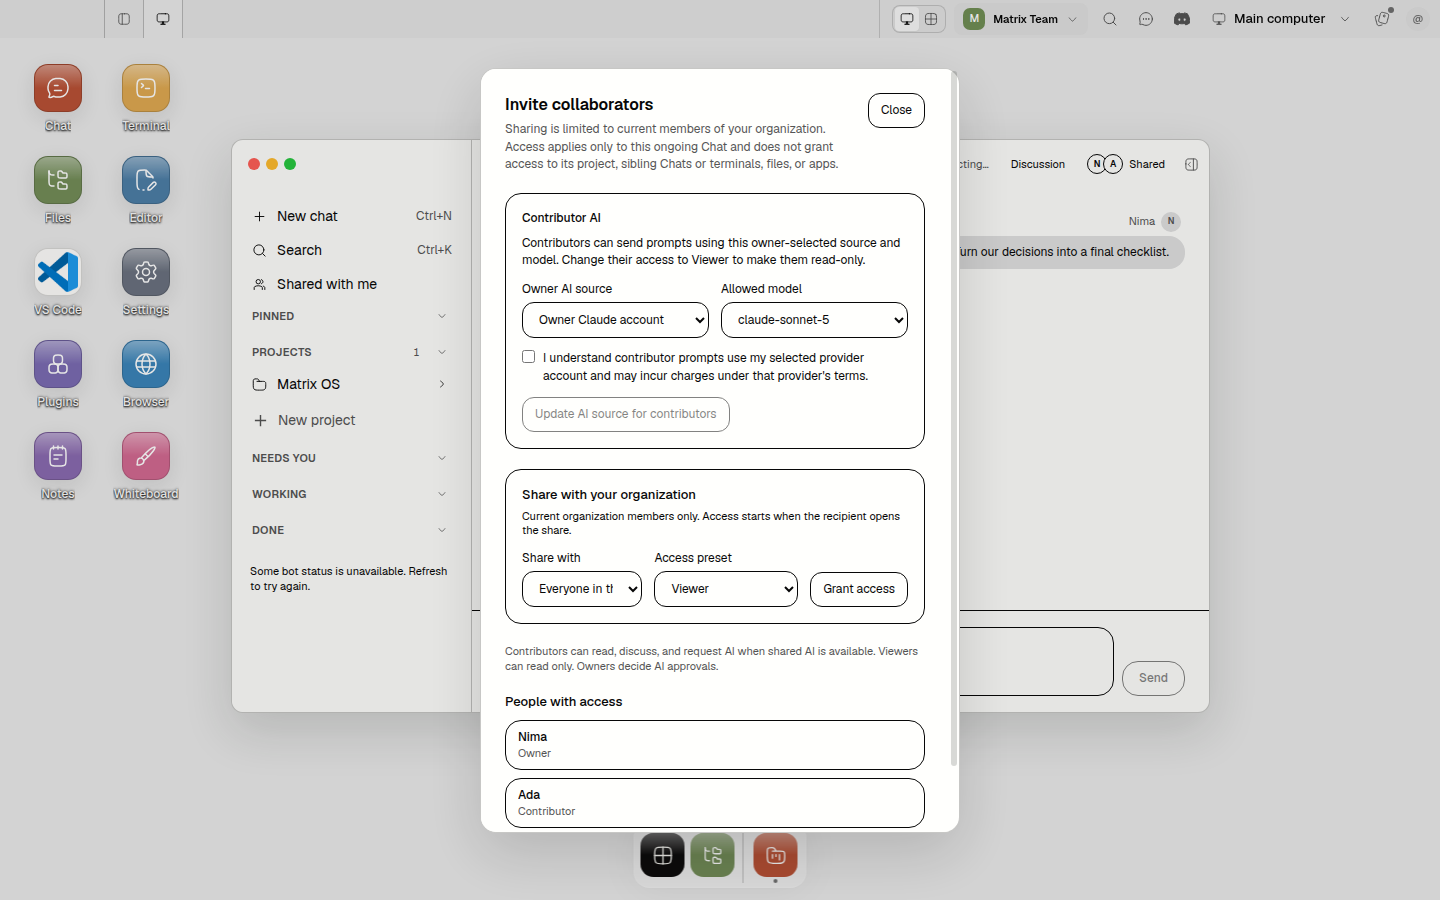
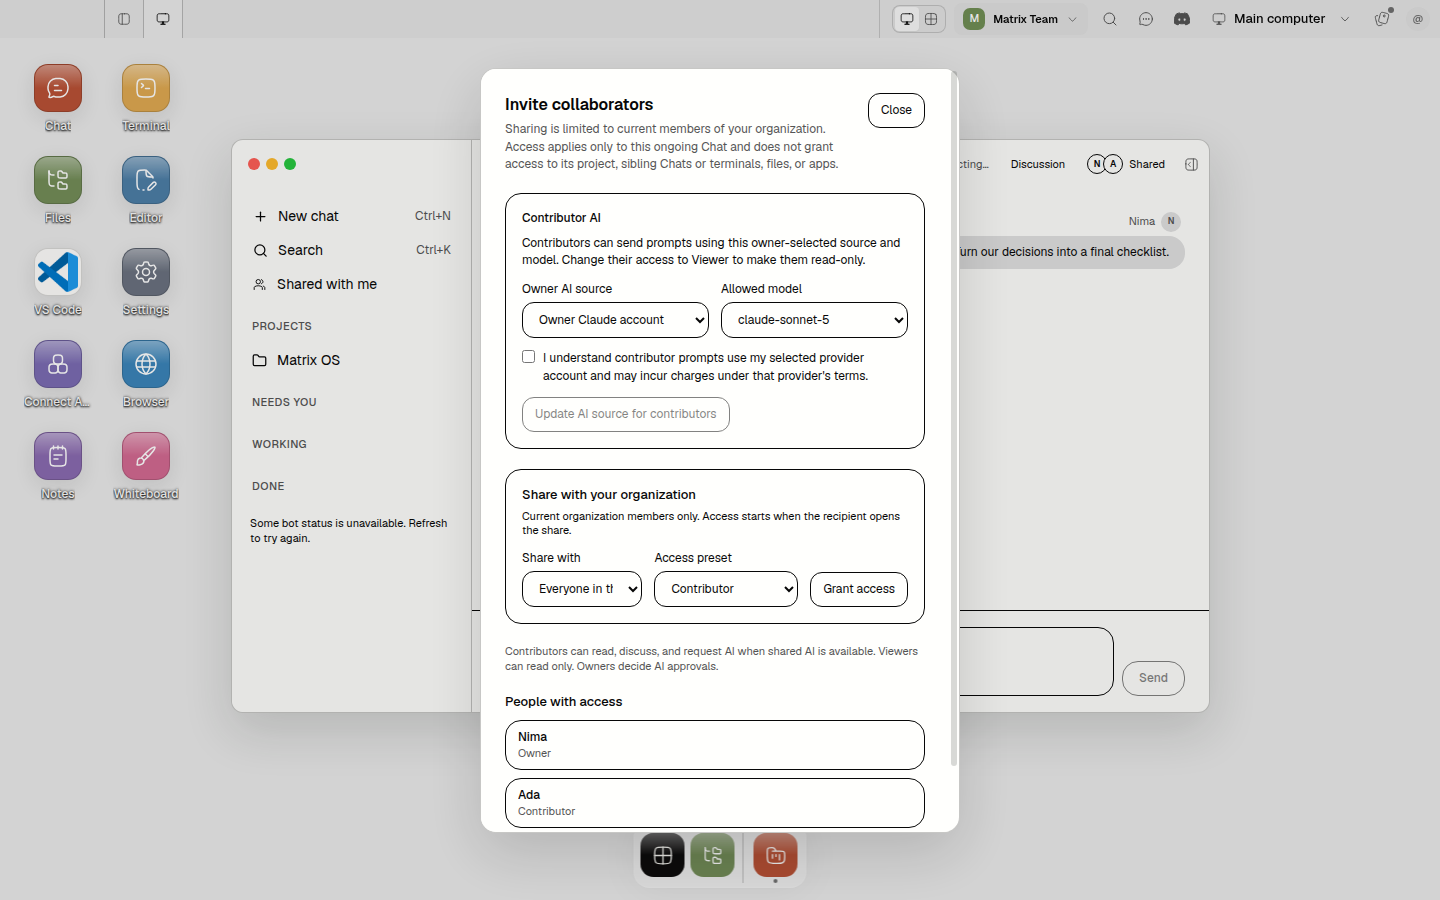
docs(collaboration): refresh contributor access evidence

diff --git a/docs/pr-evidence/integrated-shared-chat/README.md b/docs/pr-evidence/integrated-shared-chat/README.md
@@ -22,7 +22,7 @@ This is a real Electron 41 capture under Xvfb, using the production main, preloa
 
 ![Electron Desktop Ask AI queue](electron-desktop.png)
 
-The same production journey opens **Collaboration access** and verifies the persisted Contributor AI policy. It proves that contributors can send prompts using the owner's selected source, that the saved source is **Owner Claude account**, and that the saved model is **claude-sonnet-5**. The dialog also shows the organization-only sharing boundary and the Contributor/Viewer distinction.
+The same production journey opens **Collaboration access** and verifies the persisted Contributor AI policy. It proves that contributors can send prompts using the owner's selected source, that the saved source is **Owner Claude account**, and that the saved model is **claude-sonnet-5**. The exact-head capture shows **Contributor** selected by default in the access picker, while the adjacent copy preserves **Viewer** as the explicit read-only choice. The dialog also shows the organization-only sharing boundary.
 
 ![Electron Desktop saved Contributor AI policy](contributor-ai-electron-desktop.png)
 
